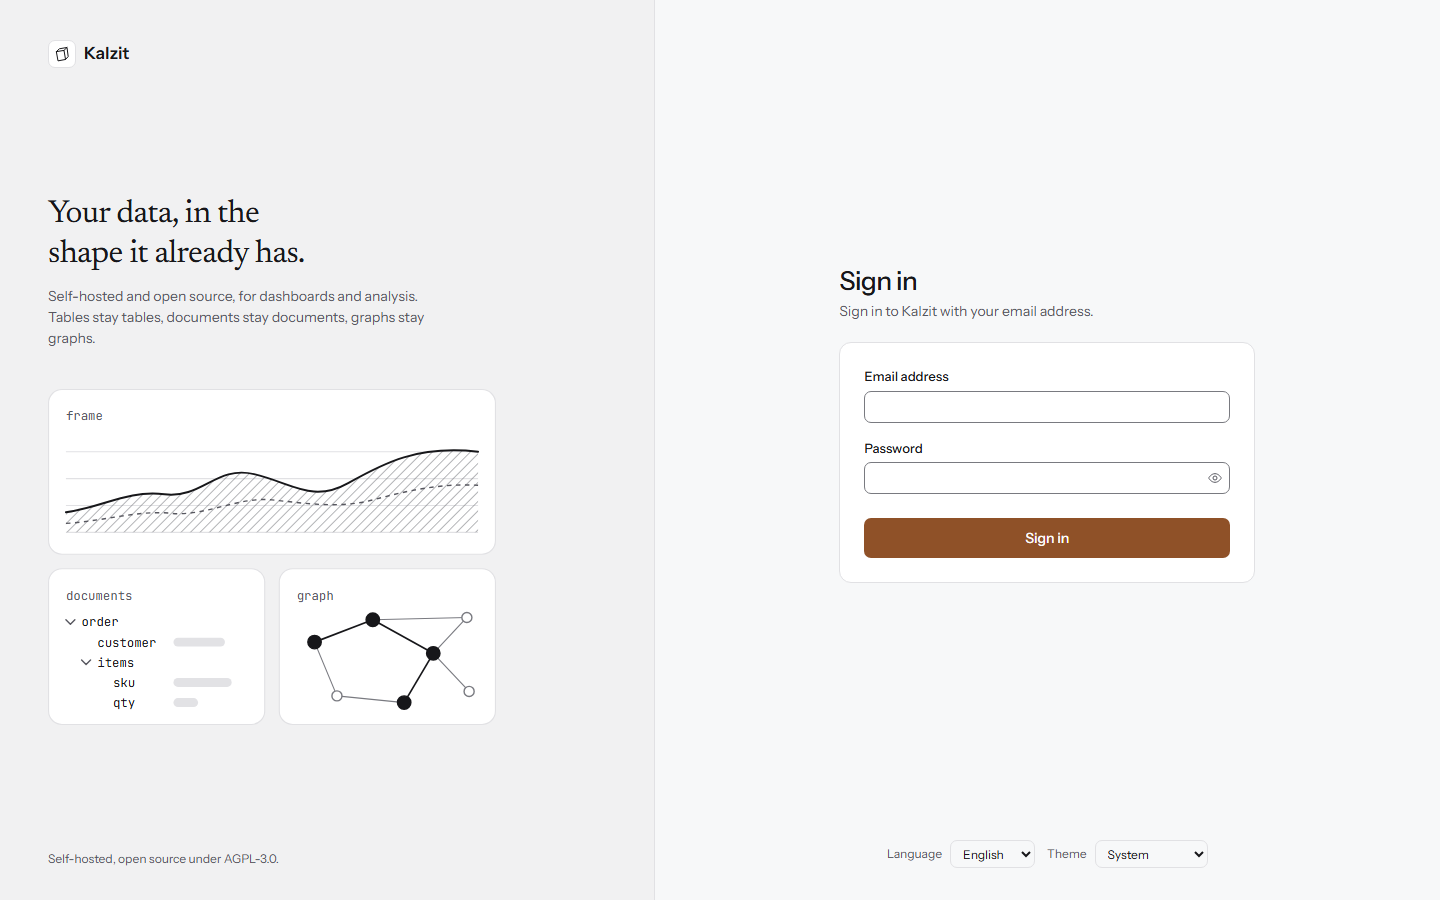
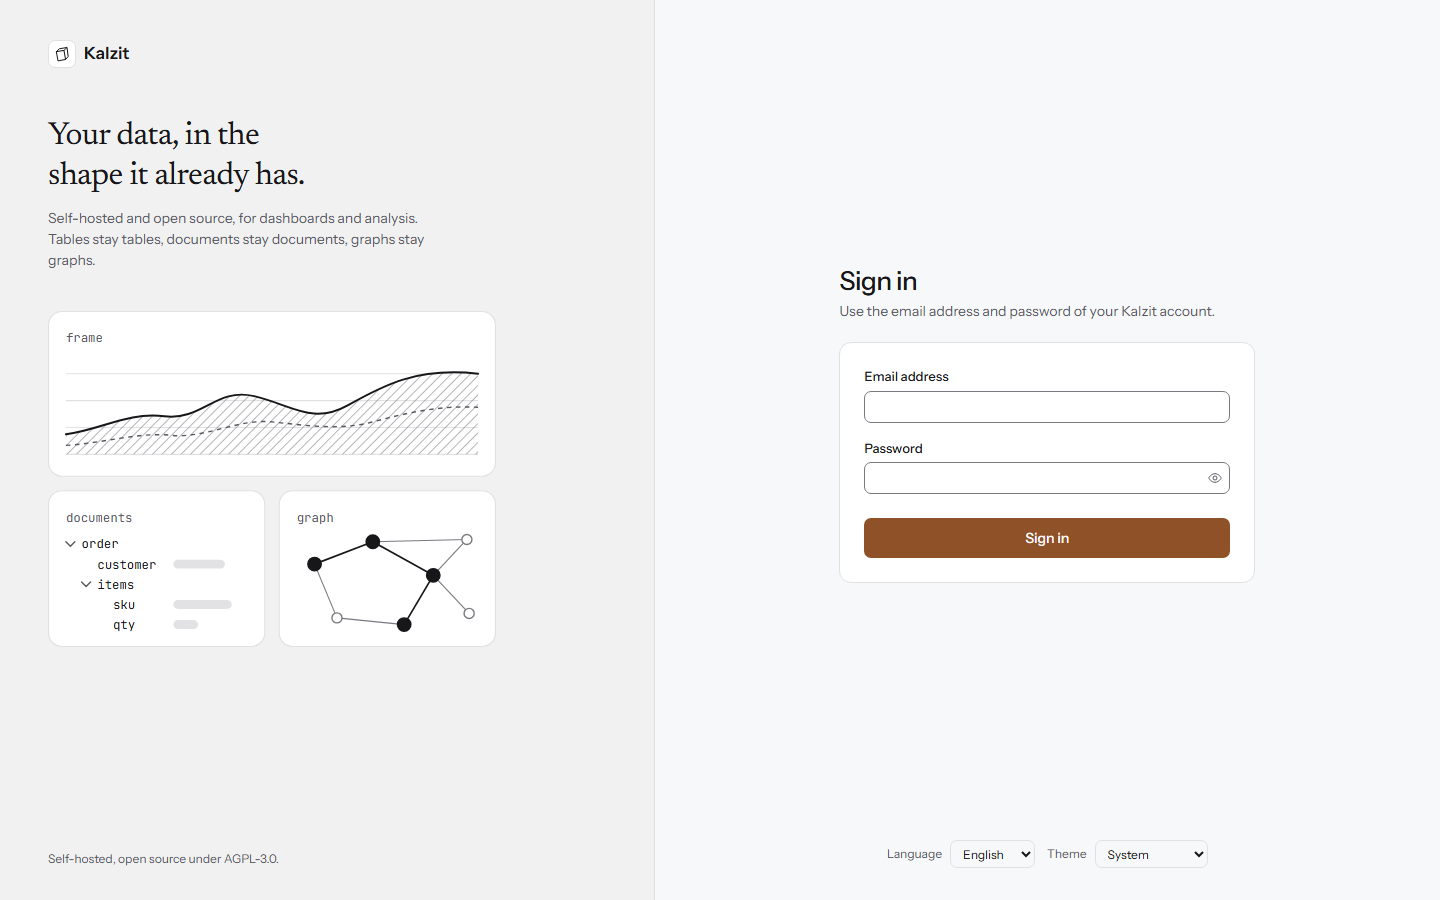
Address review of the sign-in and setup redesign
Hide a shown password on submit and page hide, name the toggle after its action, keep the top strength level for passwords with a mix of characters, take the drawing's strokes from tokens, announce the sign-out notice through a mounted status region, and give sign-in a lead that does not repeat the title with less space above the product line.

Changed region(s): [[0.0312, 0.4044, 0.3438, 0.7467], [0.0312, 0.1244, 0.2812, 0.4044], [0.5938, 0.3422, 0.8438, 0.3733]]

diff --git a/ui/src/auth/authPages.test.tsx b/ui/src/auth/authPages.test.tsx
@@ -1,4 +1,4 @@
-import { fireEvent, screen } from "@testing-library/react";
+import { fireEvent, screen, waitFor } from "@testing-library/react";
 import { describe, expect, it } from "vitest";
 import { installFakeServer, TEST_USER } from "../test/fakeServer";
 import { renderApp } from "../test/renderApp";
@@ -21,7 +21,9 @@ describe("passwordStrength", () => {
     expect(passwordStrength("a".repeat(MIN_PASSWORD_LENGTH)).level).toBe("fair");
     expect(passwordStrength("a".repeat(16)).level).toBe("fair");
     expect(passwordStrength("Abcdefghijklmn12").level).toBe("strong");
-    expect(passwordStrength("a".repeat(20)).level).toBe("strong");
+    // Length alone never makes it strong; the top level needs a mix of characters.
+    expect(passwordStrength("a".repeat(64)).level).toBe("fair");
+    expect(passwordStrength("abcdefghijklmnop12").level).toBe("fair");
   });
 
   it("counts characters as the server does", () => {
@@ -31,20 +33,46 @@ describe("passwordStrength", () => {
 });
 
 describe("sign-in page", () => {
-  it("shows and hides the password with a toggle that keeps its name", async () => {
+  it("shows and hides the password with a toggle named after what it does", async () => {
     installFakeServer();
     const { user } = renderApp("/login");
     const password = await screen.findByLabelText("Password");
     const toggle = screen.getByRole("button", { name: "Show password" });
     expect(password.getAttribute("type")).toBe("password");
-    expect(toggle.getAttribute("aria-pressed")).toBe("false");
     expect(toggle.getAttribute("aria-controls")).toBe(password.id);
+    expect(toggle.hasAttribute("title")).toBe(false);
 
     await user.click(toggle);
     expect(password.getAttribute("type")).toBe("text");
-    expect(toggle.getAttribute("aria-pressed")).toBe("true");
+    expect(toggle.getAttribute("aria-label")).toBe("Hide password");
     await user.click(toggle);
     expect(password.getAttribute("type")).toBe("password");
+    expect(toggle.getAttribute("aria-label")).toBe("Show password");
+  });
+
+  it("hides a shown password again when the form is sent", async () => {
+    installFakeServer();
+    const { user } = renderApp("/login");
+    await user.click(await screen.findByLabelText("Email address"));
+    await user.paste(TEST_USER.email);
+    const password = screen.getByLabelText("Password");
+    await user.click(password);
+    await user.paste("wrong password");
+    await user.click(screen.getByRole("button", { name: "Show password" }));
+    expect(password.getAttribute("type")).toBe("text");
+    await user.click(screen.getByRole("button", { name: "Sign in" }));
+    expect(password.getAttribute("type")).toBe("password");
+    expect(screen.getByRole("button", { name: "Show password" })).toBeTruthy();
+  });
+
+  it("hides a shown password again when the page is hidden", async () => {
+    installFakeServer();
+    const { user } = renderApp("/login");
+    const password = await screen.findByLabelText("Password");
+    await user.click(screen.getByRole("button", { name: "Show password" }));
+    expect(password.getAttribute("type")).toBe("text");
+    fireEvent(window, new Event("pagehide"));
+    await waitFor(() => expect(password.getAttribute("type")).toBe("password"));
   });
 
   it("warns about Caps Lock while it is on, linked to the field", async () => {
@@ -66,6 +94,7 @@ describe("sign-in page", () => {
     installFakeServer();
     const { user } = renderApp("/login?signedOut=true");
     const notice = await screen.findByText("You signed out.");
+    // Inside a status region that was there before the text, so it is announced.
     expect(notice.closest('[role="status"]')).toBeTruthy();
 
     await user.click(screen.getByLabelText("Email address"));
@@ -104,8 +133,10 @@ describe("setup page", () => {
     await user.type(password, "abcde");
     expect(describedText(password)).toContain("Too short: 5 of 12 characters.");
     await user.type(password, "fghijkl");
-    expect(describedText(password)).toContain("Long enough. More length makes it stronger.");
+    expect(describedText(password)).toContain(
+      "Good length. A mix of upper and lower case, digits and symbols makes it stronger.",
+    );
     await user.type(password, "MNO-9");
-    expect(describedText(password)).toContain("Strong password.");
+    expect(describedText(password)).toContain("Good length and a mix of characters.");
   });
 });

diff --git a/ui/src/auth/auth.css b/ui/src/auth/auth.css
@@ -86,7 +86,7 @@
     background: var(--bg-raised);
   }
 
-  .auth__notice {
+  .auth__status:not(:empty) {
     margin-block-end: var(--space-4);
   }
 
@@ -207,13 +207,9 @@
       color var(--duration-fast) var(--easing);
   }
 
-  .password__toggle:hover,
-  .password__toggle[aria-pressed="true"] {
-    color: var(--text);
-  }
-
   .password__toggle:hover {
     background: var(--bg-hover);
+    color: var(--text);
   }
 
   .password__status:empty {
@@ -287,27 +283,27 @@
 
   .shapes__hatch {
     stroke: var(--border-strong);
-    stroke-width: 1;
+    stroke-width: var(--stroke-hairline);
   }
 
   .shapes__line {
     fill: none;
     stroke: var(--text);
-    stroke-width: 1.75;
+    stroke-width: var(--stroke-series);
     stroke-linecap: round;
   }
 
   .shapes__compare {
     fill: none;
     stroke: var(--text-muted);
-    stroke-width: 1.25;
-    stroke-dasharray: 4 4;
+    stroke-width: var(--stroke-thin);
+    stroke-dasharray: var(--dash-compare);
   }
 
   .shapes__caret {
     fill: none;
     stroke: var(--text-muted);
-    stroke-width: 1.25;
+    stroke-width: var(--stroke-thin);
     stroke-linecap: round;
     stroke-linejoin: round;
   }
@@ -319,18 +315,18 @@
 
   .shapes__edge {
     stroke: var(--border-strong);
-    stroke-width: 1;
+    stroke-width: var(--stroke-hairline);
   }
 
   .shapes__edge--path {
     stroke: var(--text);
-    stroke-width: 1.5;
+    stroke-width: var(--stroke-path);
   }
 
   .shapes__node {
     fill: var(--bg-raised);
     stroke: var(--border-strong);
-    stroke-width: 1.25;
+    stroke-width: var(--stroke-thin);
   }
 
   .shapes__node--path {
@@ -345,8 +341,7 @@
     }
 
     .auth__aside {
-      gap: var(--space-10);
-      justify-content: space-between;
+      gap: var(--space-12);
       padding: var(--space-10) var(--space-12) var(--space-8);
       border-inline-end: var(--border-width) solid var(--border);
       background: var(--bg-surface);
@@ -363,8 +358,10 @@
       max-width: var(--size-text-max);
     }
 
+    /* The story follows the mark; only the license line is pushed to the bottom. */
     .auth__fineprint {
       display: block;
+      margin-block-start: auto;
       color: var(--text-muted);
       font-size: var(--font-size-xs);
     }

diff --git a/ui/src/auth/PasswordField.tsx b/ui/src/auth/PasswordField.tsx
@@ -1,4 +1,4 @@
-import { type KeyboardEvent, type Ref, useId, useState } from "react";
+import { type KeyboardEvent, type Ref, useEffect, useId, useRef, useState } from "react";
 import { Icon } from "../components/Icon";
 import { useI18n } from "../i18n/i18n";
 import { MIN_PASSWORD_LENGTH, passwordStrength } from "./validation";
@@ -40,6 +40,27 @@ export function PasswordField({
   const strengthId = `${id}-strength`;
   const [visible, setVisible] = useState(false);
   const [capsLock, setCapsLock] = useState(false);
+  const fieldRef = useRef<HTMLDivElement>(null);
+
+  // A shown password is hidden again once the form is sent and when the page goes away (another
+  // tab, the back-forward cache), so it never stays readable on a screen left alone.
+  useEffect(() => {
+    const form = fieldRef.current?.closest("form");
+    const hide = () => setVisible(false);
+    const hideWhenHidden = () => {
+      if (document.visibilityState === "hidden") {
+        hide();
+      }
+    };
+    form?.addEventListener("submit", hide);
+    window.addEventListener("pagehide", hide);
+    document.addEventListener("visibilitychange", hideWhenHidden);
+    return () => {
+      form?.removeEventListener("submit", hide);
+      window.removeEventListener("pagehide", hide);
+      document.removeEventListener("visibilitychange", hideWhenHidden);
+    };
+  }, []);
 
   const strength = showStrength ? passwordStrength(value) : null;
   const describedBy = [
@@ -73,7 +94,7 @@ export function PasswordField({
   const bars = strength === null ? 0 : { empty: 0, short: 1, fair: 2, strong: 3 }[strength.level];
 
   return (
-    <div className="field">
+    <div className="field" ref={fieldRef}>
       <label className="field__label" htmlFor={id}>
         {label}
       </label>
@@ -106,9 +127,7 @@ export function PasswordField({
           type="button"
           className="password__toggle"
           aria-controls={id}
-          aria-pressed={visible}
-          aria-label={t("password.show")}
-          title={t("password.show")}
+          aria-label={visible ? t("password.hide") : t("password.show")}
           onClick={() => setVisible(!visible)}
         >
           <Icon name={visible ? "eyeOff" : "eye"} />

diff --git a/ui/src/auth/LoginPage.tsx b/ui/src/auth/LoginPage.tsx
@@ -1,6 +1,6 @@
 import { useMutation, useQueryClient } from "@tanstack/react-query";
 import { getRouteApi, useRouter } from "@tanstack/react-router";
-import { type FormEvent, useRef, useState } from "react";
+import { type FormEvent, useEffect, useRef, useState } from "react";
 import { forgetAccountData, login, meQuery } from "../api/auth";
 import { type ErrorCode, isApiError } from "../api/client";
 import { FormAlert } from "../components/FormAlert";
@@ -105,17 +105,24 @@ export function LoginPage() {
     // The sign-in limit counts failures over minutes, so "a moment" would undersell the wait.
     serverError = code === "rate_limited" ? "login.rateLimited" : `errors.${code}`;
   }
-  // The confirmation of a sign-out gives way to whatever the next attempt brings.
-  const signedOut = search.signedOut === true && signIn.isIdle;
+  // The status region is mounted empty and filled after the first render, so screen readers
+  // announce the confirmation; it gives way to whatever the next attempt brings.
+  const [announced, setAnnounced] = useState(false);
+  useEffect(() => {
+    setAnnounced(search.signedOut === true);
+  }, [search.signedOut]);
+  const signedOut = announced && signIn.isIdle;
 
   return (
     <AuthLayout title={t("login.title")} lead={t("login.lead")}>
-      {signedOut ? (
-        <p className="notice auth__notice" role="status">
-          <Icon name="check" />
-          <span>{t("login.signedOut")}</span>
-        </p>
-      ) : null}
+      <div className="auth__status" role="status">
+        {signedOut ? (
+          <p className="notice auth__notice">
+            <Icon name="check" />
+            <span>{t("login.signedOut")}</span>
+          </p>
+        ) : null}
+      </div>
       <FormAlert>{serverError === null ? null : t(serverError)}</FormAlert>
       <form className="form" noValidate onSubmit={onSubmit} onKeyDown={preventComposingSubmit}>
         <TextField

diff --git a/ui/e2e/auth.spec.ts b/ui/e2e/auth.spec.ts
@@ -35,13 +35,19 @@ for (const variant of [
       const password = page.getByLabel(t("login.password", {}, variant.language), {
         exact: true,
       });
-      const toggle = page.getByRole("button", { name: t("password.show", {}, variant.language) });
+      const show = page.getByRole("button", { name: t("password.show", {}, variant.language) });
+      const hide = page.getByRole("button", { name: t("password.hide", {}, variant.language) });
       await password.fill("visible-for-a-moment");
       await expect(password).toHaveAttribute("type", "password");
-      await toggle.click();
+      await show.click();
       await expect(password).toHaveAttribute("type", "text");
-      await expect(toggle).toHaveAttribute("aria-pressed", "true");
-      await toggle.click();
+      await hide.click();
+      await expect(password).toHaveAttribute("type", "password");
+      // Sending the form hides it again.
+      await show.click();
+      await page
+        .getByRole("button", { name: t("login.submit", {}, variant.language), exact: true })
+        .click();
       await expect(password).toHaveAttribute("type", "password");
     });
 

diff --git a/ui/src/auth/validation.ts b/ui/src/auth/validation.ts
@@ -154,8 +154,8 @@ const CHARACTER_KINDS = [/\p{Ll}/u, /\p{Lu}/u, /\p{N}/u, /[^\p{L}\p{N}]/u];
 
 /**
  * A rough guide while a new password is typed, not a rule: the server only checks the length.
- * Length counts most; mixing lower and upper case, digits and other characters helps a shorter
- * password.
+ * Length alone reaches "fair" ("good length"); the top level also needs a mix of at least three
+ * kinds of characters (lower and upper case, digits, others), so length alone is never "strong".
  */
 export function passwordStrength(password: string): {
   level: PasswordStrengthLevel;
@@ -169,7 +169,7 @@ export function passwordStrength(password: string): {
     return { level: "short", length };
   }
   const kinds = CHARACTER_KINDS.filter((kind) => kind.test(password)).length;
-  const strong = length >= 20 || (length >= 16 && kinds >= 3);
+  const strong = length >= 16 && kinds >= 3;
   return { level: strong ? "strong" : "fair", length };
 }
 

diff --git a/ui/src/styles/tokens.css b/ui/src/styles/tokens.css
@@ -444,6 +444,12 @@
     --auth-card-width-wide: 32rem;
     --size-auth-art: 28rem;
     --size-auth-step: 1.25rem;
+    /* Strokes of the drawing: grid and dim edges, thin marks, the strong path, the main series. */
+    --stroke-hairline: 1;
+    --stroke-thin: 1.25;
+    --stroke-path: 1.5;
+    --stroke-series: 1.75;
+    --dash-compare: 4 4;
     --duration-spin: 0.8s;
   }
 }
